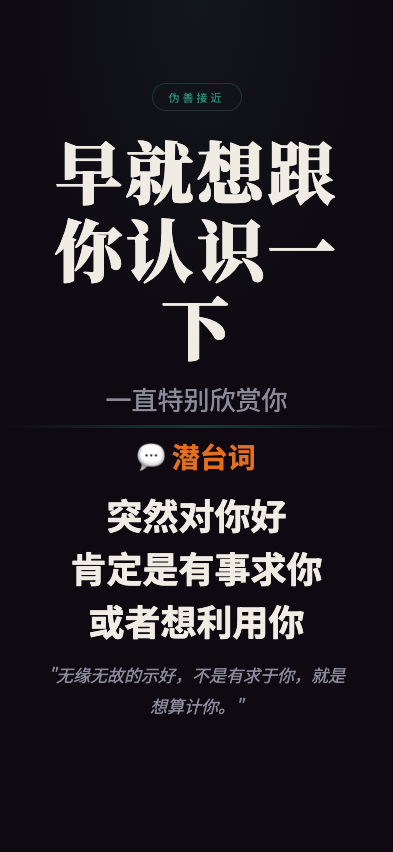
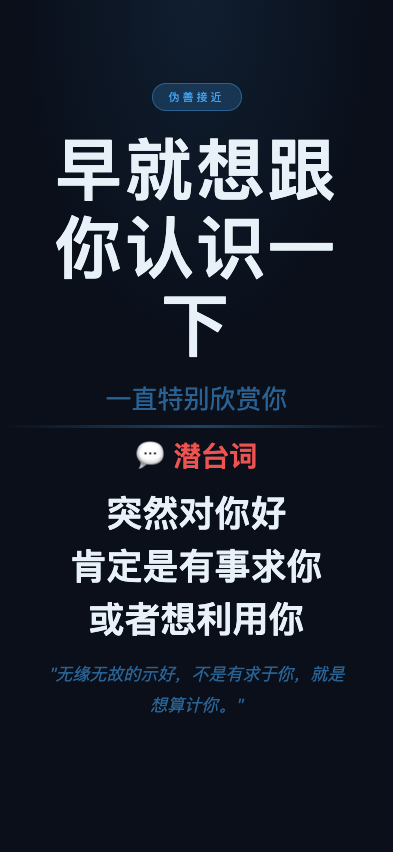
feat: 职场生存法则 screenshot - cuicai-v1

diff --git a/wuliao-tools/tools/biz-speak/scenes/zaojiuxianggennirenshiyixia.html b/wuliao-tools/tools/biz-speak/scenes/zaojiuxianggennirenshiyixia.html
@@ -7,11 +7,14 @@
 <link href="https://fonts.googleapis.com/css2?family=Noto+Serif+SC:wght@400;700;900&family=Noto+Sans+SC:wght@300;400;700&display=swap" rel="stylesheet">
 <style>
   :root {
-    --bg: #0f0a12;
-    --text: #f0ece4;
-    --text-dim: #8a8a9a;
-    --gold: #2e8b7a;
-    --red: #e07020;
+    --bg: #0a0f1a;
+    --text: #e8f0f8;
+    --text-dim: rgba(66,165,245,0.55);
+    --gold: #42a5f5;
+    --red: #ef5350;
+    --tag-bg: rgba(66,165,245,0.2);
+    --tag-border: rgba(66,165,245,0.4);
+    --tag-text: #42a5f5;
   }
   * { margin:0; padding:0; box-sizing:border-box; }
   html, body { width:100%; height:100%; overflow:hidden; }
@@ -24,11 +27,11 @@
   }
   body::before {
     content:''; position:absolute; top:0; left:0; right:0; height:45%;
-    background:radial-gradient(ellipse at 50% 0%, rgba(46,139,122,0.1) 0%, transparent 65%);
+    background:radial-gradient(ellipse at 50% 0%, rgba(66,165,245,0.1) 0%, transparent 65%);
     pointer-events:none; z-index:0;
   }
   .top { flex:1; display:flex; flex-direction:column; align-items:center; justify-content:flex-end; padding:4px 28px 8px; position:relative; z-index:1; }
-  .tag { font-size:11px; letter-spacing:3px; color:var(--gold); border:1px solid rgba(46,139,122,0.3); padding:5px 16px; border-radius:50px; margin-bottom:20px; }
+  .tag { font-size:11px; letter-spacing:3px; color:var(--tag-text); background:var(--tag-bg); border:1px solid var(--tag-border); padding:5px 16px; border-radius:50px; margin-bottom:20px; }
   .main-title { font-family:'Noto Serif SC'; font-size:68px; font-weight:900; text-align:center; line-height:1.15; letter-spacing:3px; min-width:0; overflow-wrap:break-word; max-width:92%; }
   .sub-title { font-size:26px; color:var(--text-dim); text-align:center; margin-top:14px; }
   .divider { width:100%; height:3px; background:linear-gradient(90deg,transparent,var(--gold),transparent); opacity:0.35; flex-shrink:0; position:relative; z-index:1; }
@@ -49,9 +52,7 @@
   <div class="bottom">
     <div class="truth-label">💬 潜台词</div>
     <div class="truth-lines">
-      <div class="truth-line">突然对你好</div>
-      <div class="truth-line">肯定是有事求你</div>
-      <div class="truth-line">或者想利用你</div>
+      <div class="truth-line">突然对你好</div><div class="truth-line">肯定是有事求你</div><div class="truth-line">或者想利用你</div>
     </div>
     <div class="quote">"无缘无故的示好，不是有求于你，就是想算计你。"</div>
   </div>
